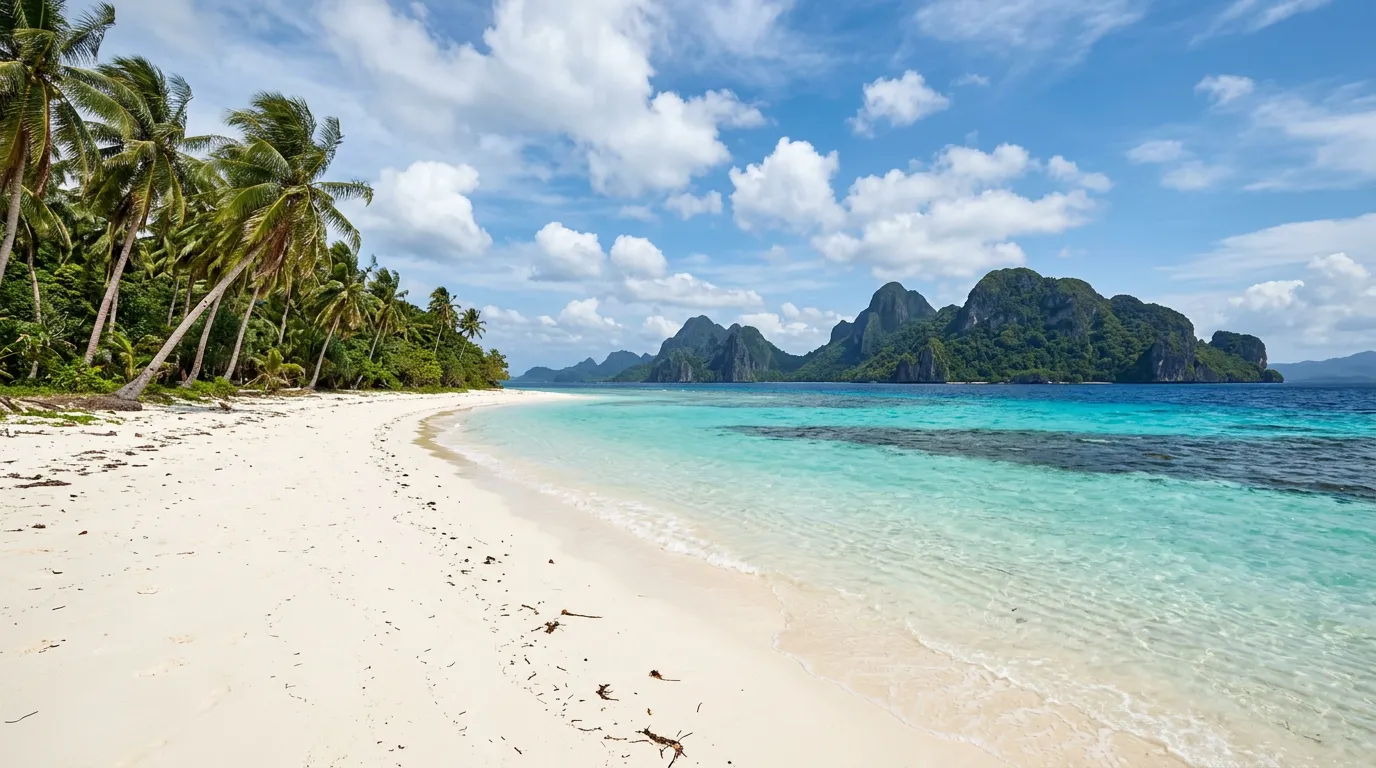
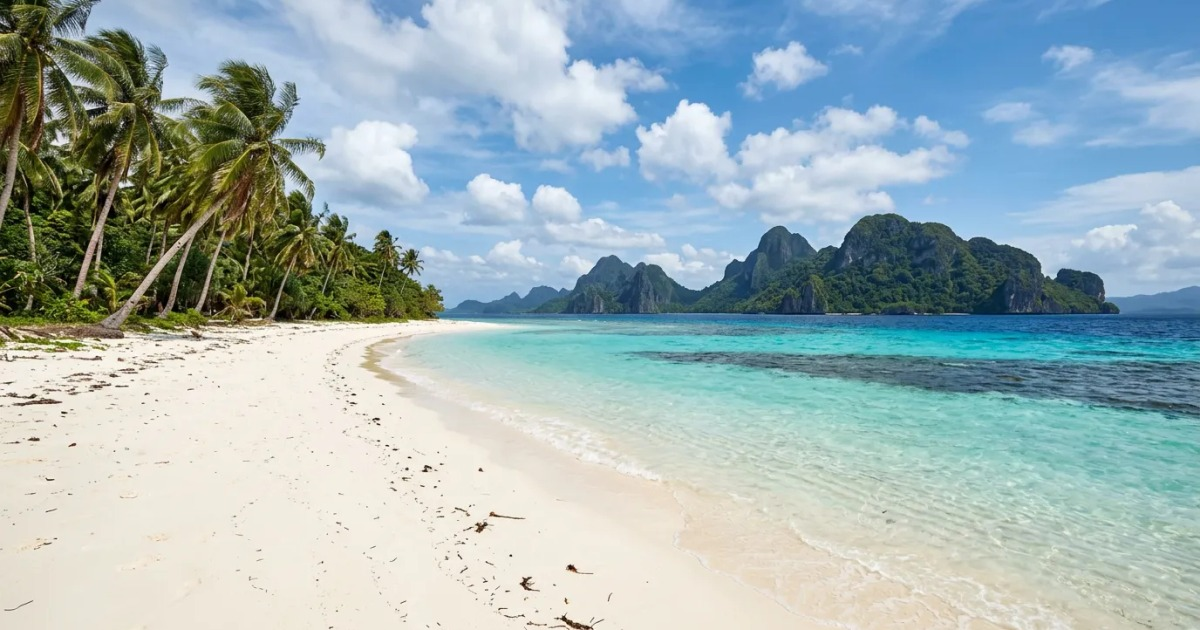
Open Graph Fixes

diff --git a/index.html b/index.html
@@ -5,7 +5,7 @@
 <meta name="viewport" content="width=device-width, initial-scale=1.0, viewport-fit=cover" />
 <title>Kamp Malaya | Luxury Eco-Resort & Island Tours in Balabac, Palawan</title>
 <meta name="description" content="Kamp Malaya is a sustainable luxury eco-resort in Balabac, Palawan. Beachfront huts, island-hopping and joiner tours from ₱14,799. Book Balabac's hidden sanctuary." />
-<link rel="canonical" href="https://kampmalaya.tours/" />
+<link rel="canonical" href="https://www.kampmalaya.tours/" />
 <meta name="robots" content="index,follow" />
 <meta name="theme-color" content="#1A1A1A" />
 
@@ -14,24 +14,21 @@
 <meta property="og:site_name" content="Kamp Malaya" />
 <meta property="og:title" content="Kamp Malaya | Luxury Eco-Resort in Balabac, Palawan" />
 <meta property="og:description" content="Sustainable luxury at the last frontier — beachfront sanctuaries and island tours in Balabac, Palawan." />
-<meta property="og:url" content="https://kampmalaya.tours/" />
-<!-- Primary image: JPG for best compatibility -->
+<meta property="og:url" content="https://www.kampmalaya.tours/" />
 <meta property="og:image" content="https://www.kampmalaya.tours/gallery/panorama.jpg" />
-<meta property="og:image:width" content="1376" />
-<meta property="og:image:height" content="768" />
+<meta property="og:image:secure_url" content="https://www.kampmalaya.tours/gallery/panorama.jpg" />
+<meta property="og:image:width" content="1200" />
+<meta property="og:image:height" content="630" />
 <meta property="og:image:type" content="image/jpeg" />
-<!-- Fallback: WebP version -->
-<meta property="og:image" content="https://www.kampmalaya.tours/gallery/panorama.webp" />
-<meta property="og:image:width" content="1376" />
-<meta property="og:image:height" content="768" />
-<meta property="og:image:type" content="image/webp" />
+<meta property="og:image:alt" content="Aerial panoramic view of a pristine Balabac beach and turquoise sea at Kamp Malaya eco-resort in Palawan, Philippines" />
 <meta property="og:locale" content="en_PH" />
 
 <!-- Twitter -->
 <meta name="twitter:card" content="summary_large_image" />
-<meta name="twitter:title" content="Kamp Malaya | Eco-Resort in Balabac, Palawan" />
-<meta name="twitter:description" content="Balabac's hidden sanctuary — sustainable luxury, island tours, untouched paradise." />
+<meta name="twitter:title" content="Kamp Malaya | Luxury Eco-Resort in Balabac, Palawan" />
+<meta name="twitter:description" content="Sustainable luxury at the last frontier — beachfront sanctuaries and island tours in Balabac, Palawan." />
 <meta name="twitter:image" content="https://www.kampmalaya.tours/gallery/panorama.jpg" />
+<meta name="twitter:image:alt" content="Aerial panoramic view of a pristine Balabac beach and turquoise sea at Kamp Malaya eco-resort in Palawan, Philippines" />
 
 <!-- Google Fonts -->
 <link rel="preconnect" href="https://fonts.googleapis.com" />
@@ -539,9 +536,9 @@
   "@type": "Resort",
   "name": "Kamp Malaya",
   "description": "Sustainable luxury eco-resort and island-tour operator in Balabac, Palawan, Philippines.",
-  "url": "https://kampmalaya.tours/",
-  "image": "https://kampmalaya.tours/gallery/panorama.webp",
-  "logo": "https://kampmalaya.tours/icons/kampmalaya.png",
+  "url": "https://www.kampmalaya.tours/",
+  "image": "https://www.kampmalaya.tours/gallery/panorama.jpg",
+  "logo": "https://www.kampmalaya.tours/icons/kampmalaya.png",
   "email": "kampmalayabalabac@gmail.com",
   "telephone": "+63-962-240-3861",
   "priceRange": "₱₱",

diff --git a/funnel.html b/funnel.html
@@ -5,7 +5,7 @@
 <meta name="viewport" content="width=device-width, initial-scale=1.0" />
 <title>Reserve Your Balabac Escape | Kamp Malaya Booking</title>
 <meta name="description" content="Secure your stay at Kamp Malaya, Balabac's luxury eco-sanctuary. Private stays and 4D/3N joiner tours — check availability in under a minute." />
-<link rel="canonical" href="https://kampmalaya.tours/funnel.html" />
+<link rel="canonical" href="https://www.kampmalaya.tours/funnel.html" />
 <!-- A booking funnel usually shouldn't compete in search with the home page -->
 <meta name="robots" content="noindex,follow" />
 <meta name="theme-color" content="#1A1A1A" />
@@ -15,20 +15,17 @@
 <meta property="og:site_name" content="Kamp Malaya" />
 <meta property="og:title" content="Reserve Your Balabac Escape | Kamp Malaya" />
 <meta property="og:description" content="Book your stay or joiner tour at Balabac's hidden luxury eco-sanctuary." />
-<meta property="og:url" content="https://kampmalaya.tours/funnel.html" />
-<!-- Primary image: JPG for best compatibility -->
+<meta property="og:url" content="https://www.kampmalaya.tours/funnel.html" />
 <meta property="og:image" content="https://www.kampmalaya.tours/gallery/panorama.jpg" />
-<meta property="og:image:width" content="1376" />
-<meta property="og:image:height" content="768" />
+<meta property="og:image:secure_url" content="https://www.kampmalaya.tours/gallery/panorama.jpg" />
+<meta property="og:image:width" content="1200" />
+<meta property="og:image:height" content="630" />
 <meta property="og:image:type" content="image/jpeg" />
-<!-- Fallback: WebP version -->
-<meta property="og:image" content="https://www.kampmalaya.tours/gallery/panorama.webp" />
-<meta property="og:image:width" content="1376" />
-<meta property="og:image:height" content="768" />
-<meta property="og:image:type" content="image/webp" />
+<meta property="og:image:alt" content="Aerial panoramic view of a pristine Balabac beach and turquoise sea at Kamp Malaya eco-resort in Palawan, Philippines" />
 <meta name="twitter:card" content="summary_large_image" />
 <meta name="twitter:title" content="Reserve Your Balabac Escape | Kamp Malaya" />
 <meta name="twitter:image" content="https://www.kampmalaya.tours/gallery/panorama.jpg" />
+<meta name="twitter:image:alt" content="Aerial panoramic view of a pristine Balabac beach and turquoise sea at Kamp Malaya eco-resort in Palawan, Philippines" />
 
 <link rel="icon" type="image/png" href="/icons/kampmalaya.png" />
 
